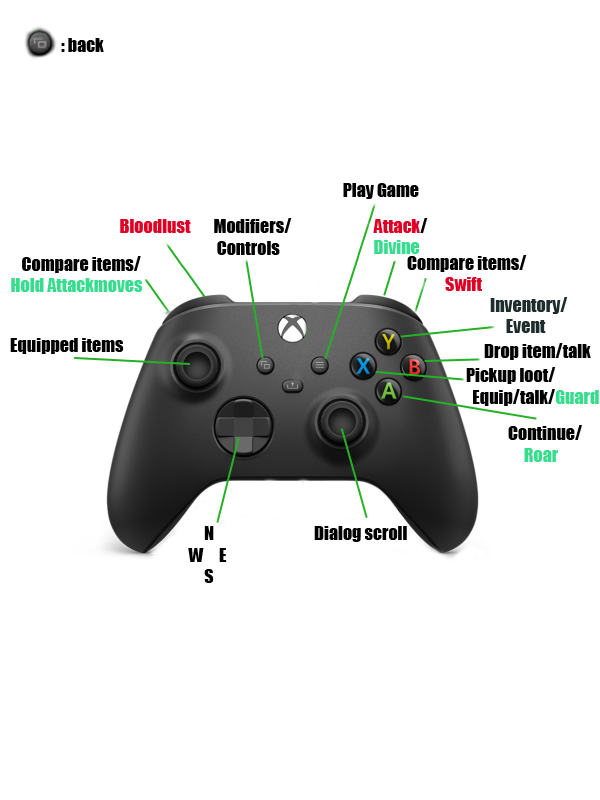
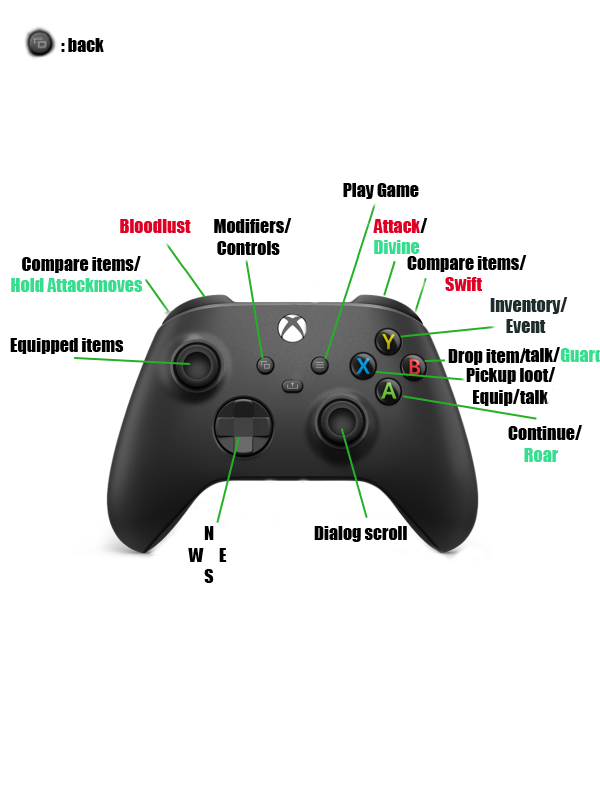
Fixes some bugs * Sophia is no longer dead if the player has already seen her alive * Adds a couple of new items * Fixes XboxLayout image Guard Attack

Changed region(s): [[0.75, 0.4062, 1.0, 0.5312]]

diff --git a/AdventureGame/ItemContainer.cs b/AdventureGame/ItemContainer.cs
@@ -73,7 +73,9 @@ public class ItemContainer
         Item item9a = new("Blood Knife", ItemType.WeaponRightHand, 3, 0, 0, 0, 0, 8, 0, 8, 6);
         Item item10a = new("Blood Sword", ItemType.WeaponRightHand, 3, 0, 0, 0, 0, 6, 0, 8, 6);
         Item item10aa = new("Vampire Slayer", ItemType.WeaponRightHand, 4, 0, 0, 0, 0, 15, 0, 7, 11);
+        Item item11aaa = new("Battle Axe", ItemType.WeaponRightHand, 9, 0, 0, 0, 0, 0, 10, 10, 12);
         RandomItem item11aa = new("Magic Rapier", ItemType.WeaponRightHand, ItemQuality.Magic);
+
 
         Item item11a = new("Shiny Axe", ItemType.WeaponRightHand, 7, 2, 0, 0, 0, 0, 0, 10, 15);
         RandomItem item12a = new("Bloody Hook", ItemType.WeaponLeftHand);
@@ -88,12 +90,12 @@ public class ItemContainer
         Item item31aa = new("Blood Hammer", ItemType.WeaponRightHand, 7, 0, 0, 0, 0, 0, 10, 12, 13);
         Item item32aa = new("Rusty Greataxe", ItemType.WeaponRightHand, 8, 0, 0, 0, 0, 0, 0, 16, 14);
         Item item33aa = new("Shiny Sword", ItemType.WeaponRightHand, 6, 0, 0, 0, 0, 0, 9, 8, 14);
+        Item item35aa = new("Night's Edge", ItemType.WeaponRightHand, 5, 0, 0, 0, 0, 0, 50, 8, 14);
 
         RandomItem item34aa = new("Rare Sword", ItemType.WeaponRightHand, ItemQuality.Rare);
-
         RandomItem item29a = new("Great Halberd", ItemType.WeaponRightHand, ItemQuality.Epic);
         RandomItem item30a = new("Great Sword", ItemType.WeaponRightHand, ItemQuality.Epic);
-        RandomItem item32a = new("GreatAxe", ItemType.WeaponRightHand, ItemQuality.Epic);
+        RandomItem item32a = new("Greataxe", ItemType.WeaponRightHand, ItemQuality.Epic);
 
         // ARMORS string name, type, health, regen, CritChance, strength, dodgeChance, armor, skillLevel, lifesteal, critdmg, strengthRequirement, levelRequirement
         Item item1b = new("Rusty Armor", ItemType.Armor, 1, 0, 0, 0, 0, 1, 0, 0, 0, 2, 1);
@@ -159,6 +161,7 @@ public class ItemContainer
         Item item17c = new("Veil of Evasion", ItemType.Helmet, 0, 4, 0, 0, 7, 0, 0, 0, 0, 10, 13);
         Item item18c = new("Bronze Leggings", ItemType.Leggings, 0, 4, 0, 0, 8, 2, 0, 0, 0, 11, 11);
         Item item19c = new("Bronze Belt", ItemType.Belt, 0, 0, 0, 0, 9, 1, 0, 0, 0, 7, 12);
+        Item item20c = new("Chance Guards", ItemType.Gloves, 0, 0, 10, 0, 0, 0, 0, 0, 0, 0, 12);
 
         Item item16b = new("Vampire Leggings", ItemType.Leggings, 20, 1, 4, 0, 0, 2, 0, 5, 0, 8, 9);
         Item item17b = new("Vampire Gloves", ItemType.Gloves, 10, 1, 0, 2, 0, 1, 0, 10, 0, 5, 6);
@@ -223,9 +226,12 @@ public class ItemContainer
         RandomItem item41b = new("Rare Axe", ItemType.WeaponRightHand, ItemQuality.Rare);
         RandomItem item42b = new("Rare Giant Sword", ItemType.WeaponRightHand, ItemQuality.Rare);
         RandomItem item47 = new("Iron Jacket", ItemType.Armor, ItemQuality.Rare);
+        RandomItem item48 = new("Rare Guards", ItemType.Gloves, ItemQuality.Rare);
         // Epic items
         RandomItem epicSword1 = new("Epic Sword", ItemType.WeaponRightHand, ItemQuality.Epic);
         RandomItem epicSword2 = new("Epic Axe", ItemType.WeaponRightHand, ItemQuality.Epic);
+        RandomItem epicSword3 = new("Epic Dagger", ItemType.WeaponRightHand, ItemQuality.Epic);
+        RandomItem epicSword4 = new("Epic Lance", ItemType.WeaponRightHand, ItemQuality.Epic);
         RandomItem epicGloves1 = new("Epic Gloves", ItemType.Gloves, ItemQuality.Epic);
         RandomItem epicGloves2 = new("Epic Gauntlets", ItemType.Gloves, ItemQuality.Epic);
         RandomItem epicBelt1 = new("Epic Belt", ItemType.Belt, ItemQuality.Epic);
@@ -238,6 +244,7 @@ public class ItemContainer
         RandomItem epicArmor2 = new("Epic Plate", ItemType.Armor, ItemQuality.Epic);
         RandomItem epicArmor3 = new("Golden Armor", ItemType.Armor, ItemQuality.Epic);
         RandomItem epicArmor4 = new("Sun Armor", ItemType.Armor, ItemQuality.Epic);
+        RandomItem epicArmor5 = new("Reflecting Armor", ItemType.Armor, ItemQuality.Epic);
         RandomItem epicHelmet1 = new("Epic Helmet", ItemType.Helmet, ItemQuality.Epic);
         RandomItem epicHelmet2 = new("Epic Mask", ItemType.Helmet, ItemQuality.Epic);
         RandomItem epicHelmet3 = new("Epic Sallet", ItemType.Helmet, ItemQuality.Epic);
@@ -331,6 +338,7 @@ public class ItemContainer
         ImprovedRandomItem weaponright14 = new(ItemType.WeaponRightHand);
         ImprovedRandomItem weaponright15 = new(ItemType.WeaponRightHand);
         ImprovedRandomItem weaponright16 = new(ItemType.WeaponRightHand);
+        ImprovedRandomItem weaponright17 = new(ItemType.WeaponRightHand);
         ImprovedRandomItem gloves1 = new(ItemType.Gloves);
         ImprovedRandomItem gloves2 = new(ItemType.Gloves);
         ImprovedRandomItem gloves3 = new(ItemType.Gloves);
@@ -783,8 +791,8 @@ public class ItemContainer
         items4.Add(item11aa);
         items4.Add(item34aa);
         items4.Add(gloves16);
-        items4.Add(null);
-        items4.Add(null);
+        items4.Add(item11aaa);
+        items4.Add(item20c);
         items4.Add(null);
         items4.Add(null);
         items4.Add(null);
@@ -882,6 +890,9 @@ public class ItemContainer
         items5.Add(item41b);
         items5.Add(gloves17);
         items5.Add(magicWeapon4);
+        items5.Add(item48);
+        items5.Add(weaponright17); 
+        items5.Add(null);
         items5.Add(null);
         items5.Add(null);
         items5.Add(null);
@@ -968,7 +979,7 @@ public class ItemContainer
         items6.Add(amulet9cc);
         items6.Add(weaponright16);
         items6.Add(item42b);
-        items6.Add(null);
+        items6.Add(item35aa);
         items6.Add(null);
         items6.Add(null);
         items6.Add(null);
@@ -1082,6 +1093,8 @@ public class ItemContainer
         items7.Add(epicArmor4);
         items7.Add(legendaryHammer);
         items7.Add(item32a);
+        items7.Add(epicArmor5);
+        items7.Add(epicSword3);
         items7.Add(null);
         items7.Add(null);
         items7.Add(null);
@@ -1166,6 +1179,8 @@ public class ItemContainer
         items8.Add(magicHelmet2);
         items8.Add(epicHelmet4);
         items8.Add(epicHook3);
+        items8.Add(epicSword4);
+        items8.Add(null);
         items8.Add(null);
         items8.Add(null);
         items8.Add(null);

diff --git a/AdventureGame/StoryProgress.cs b/AdventureGame/StoryProgress.cs
@@ -340,14 +340,14 @@ internal class StoryProgress
                 _mainWindow.panelEncounter.Hide();
                 _mainWindow.panelTown.Show();
 
-                if (Encounter.TotalNumberOfMonstersDefeated < 451 && ModifierProcessor.NumberOfModifiersCurrentlyActive >= 3) // Sophia is alive if these criteria are met
+                if (Encounter.TotalNumberOfMonstersDefeated < 500 && ModifierProcessor.NumberOfModifiersCurrentlyActive >= 3 || SophiaIsAlive == true) // Sophia is alive if these criteria are met
                 {
                     _imageSetter.SetAct5SophiaAlive();
                     _mainWindow.txtBox_Town.Text = GetSophiaIsSavedText();
                     SophiaIsAlive = true;
                     StoryState = 20; // Advance the story state
                 }
-                else // If Sophia is not alive
+                else // If criteria for Sophia is alive is not met, she is dead:
                 {
                     _mainWindow.txtBox_Town.Text = "You find Sophia's lifeless body in the void. The darkness has consumed her. " +
                         "Your heart sinks as you realize you've failed to save her.";

diff --git a/AdventureGame/MonsterContainer.cs b/AdventureGame/MonsterContainer.cs
@@ -190,7 +190,7 @@ internal class MonsterContainer
         Monster act3Boss = new("The Devouring Abyss", 400, 400, 15, 0, 30, 100, 30, null);
         Monster act5Boss = new("Awoken Horror", 1346, 1346, 40, 0, 80, 1000, 500, awokenHorrorImage);
         Monster act2OptionalBoss = new("The Frostfallen King", 1100, 1100, 48, 0, 25, 500, 0, null);
-        Monster act5OptionalBoss = new("Ultimate Darkness", 9999, 9999, 77, 0, 77, 9999, 999, null);
+        Monster act5OptionalBoss = new("Ultimate Darkness", 9999, 9999, 80, 0, 85, 9999, 999, null);
 
         // Special enemies
         ListOfMonstersBossAct1.Add(act1Boss);

diff --git a/AdventureGame/MainWindow.Designer.cs b/AdventureGame/MainWindow.Designer.cs
@@ -1949,9 +1949,9 @@ partial class MainWindow
         labelVersionNumber.ForeColor = Color.White;
         labelVersionNumber.Location = new Point(12, 1175);
         labelVersionNumber.Name = "labelVersionNumber";
-        labelVersionNumber.Size = new Size(36, 15);
+        labelVersionNumber.Size = new Size(37, 15);
         labelVersionNumber.TabIndex = 6;
-        labelVersionNumber.Text = "v0.87";
+        labelVersionNumber.Text = "v0.88";
         // 
         // labelXboxRecommended
         // 
